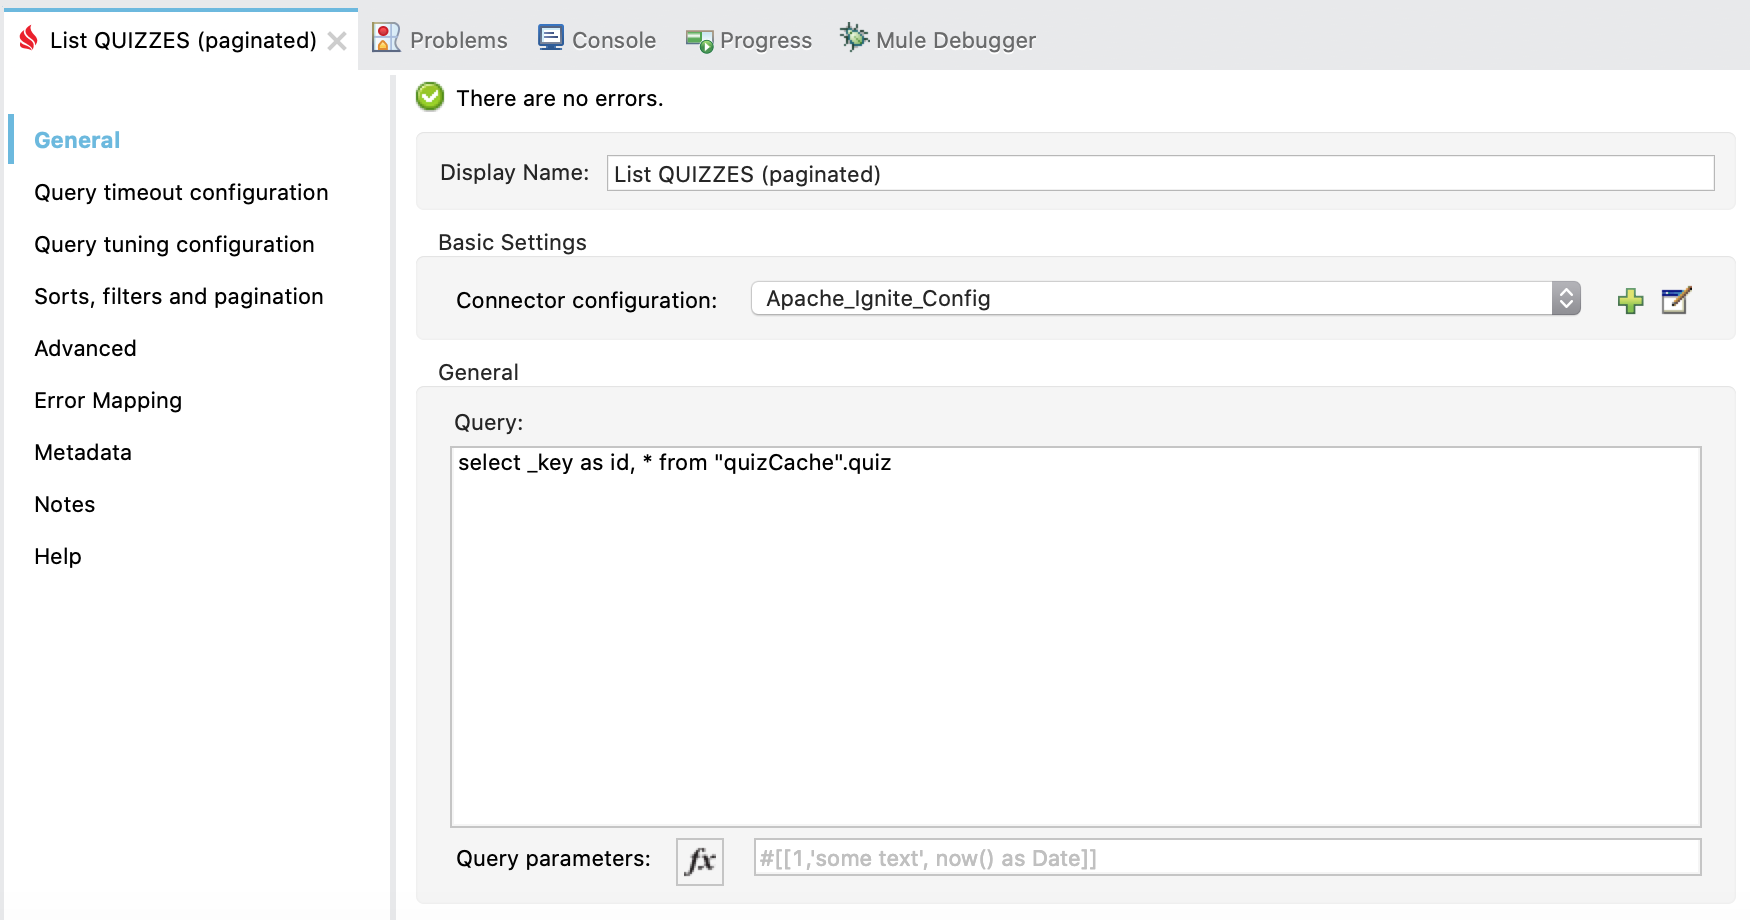
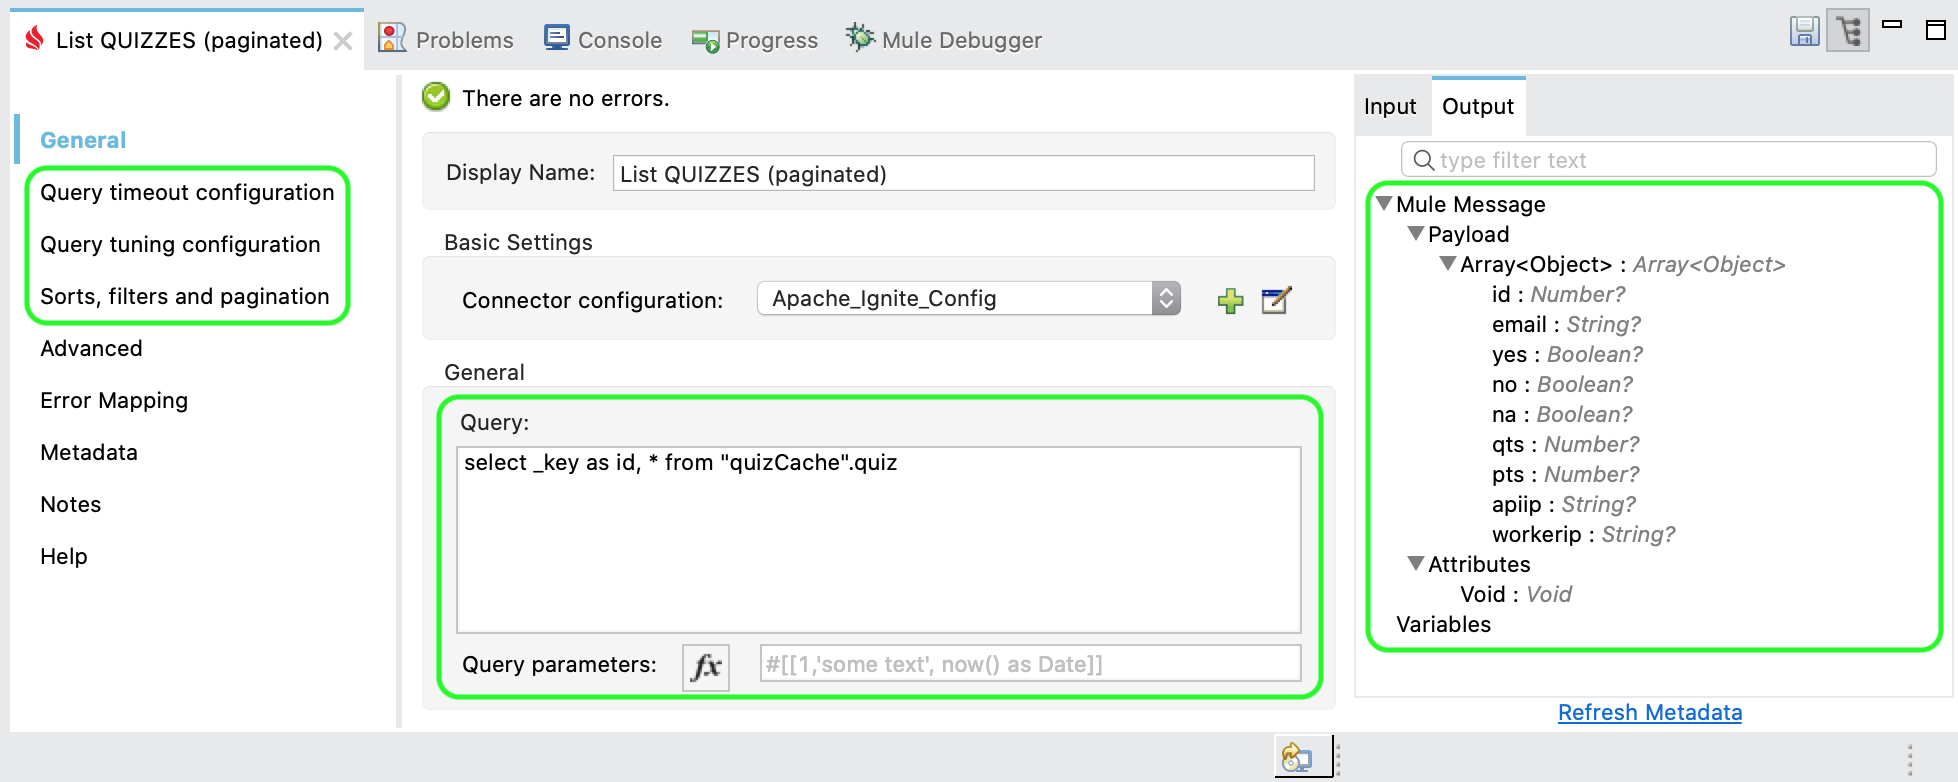
Update README.md

diff --git a/mule-api-app/README.md b/mule-api-app/README.md
@@ -54,7 +54,7 @@ Mule flow to acquire Quizzes from HTTP POST request (/api/quiz) and publish them
 
 ### List Quizzes
 
-As simple as query distributed database (`quizCache`) using SQL:
+As simple as query the distributed database (`quizCache`) using SQL ([DataSense](https://docs.mulesoft.com/studio/7.4/datasense-concept) enabled):
 
 ![mule-api-app-list-quizs-flow](../docs/assets/mule-api-app-list-quizs-flow.png)
 
